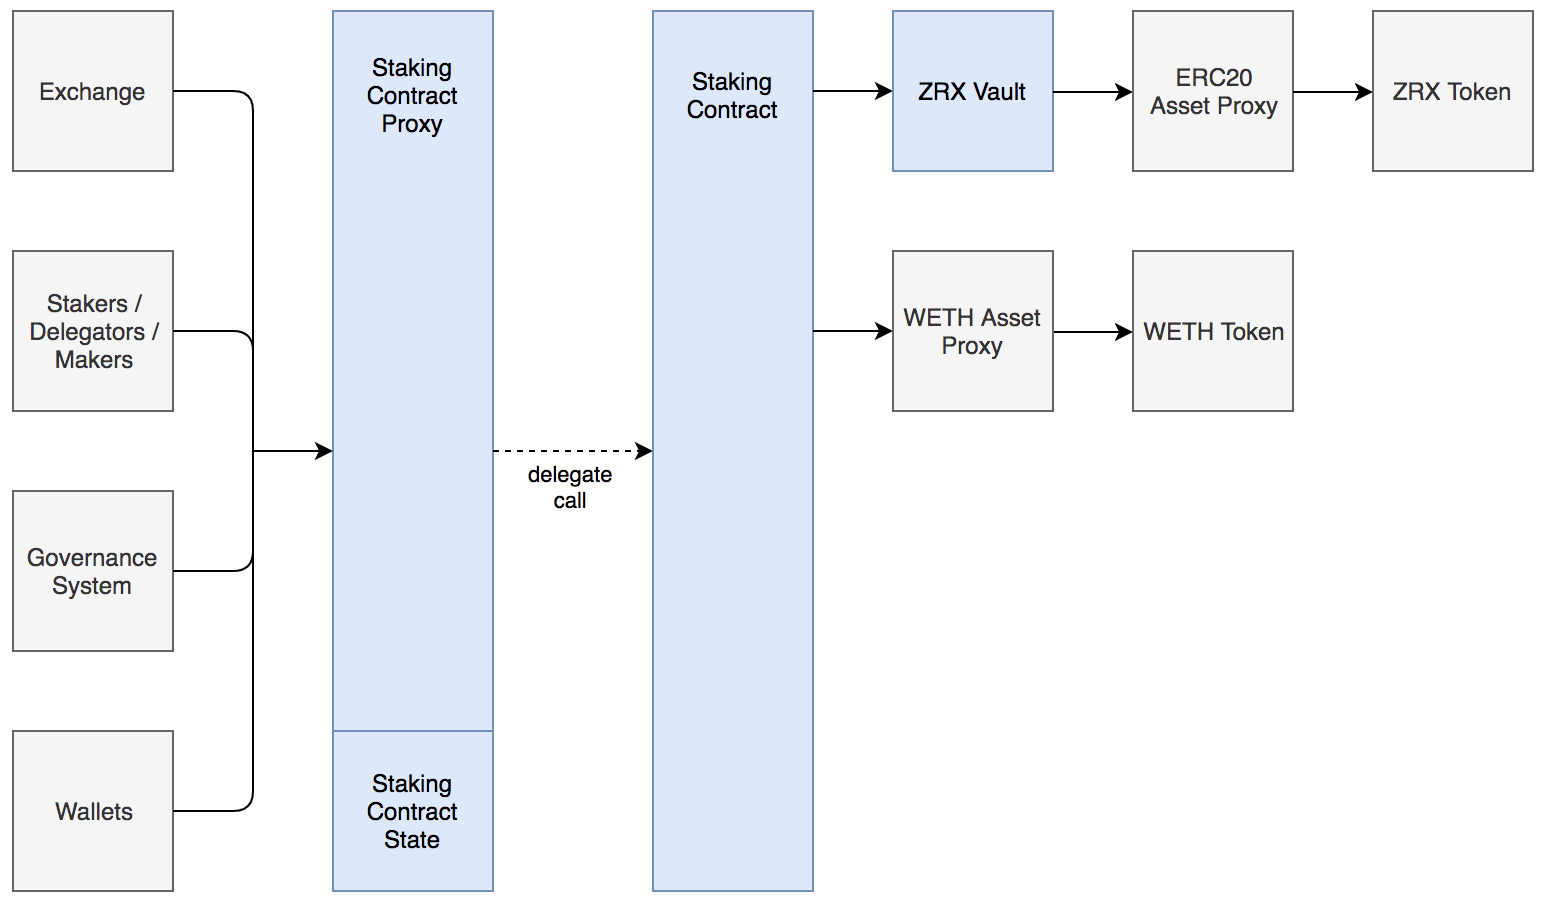
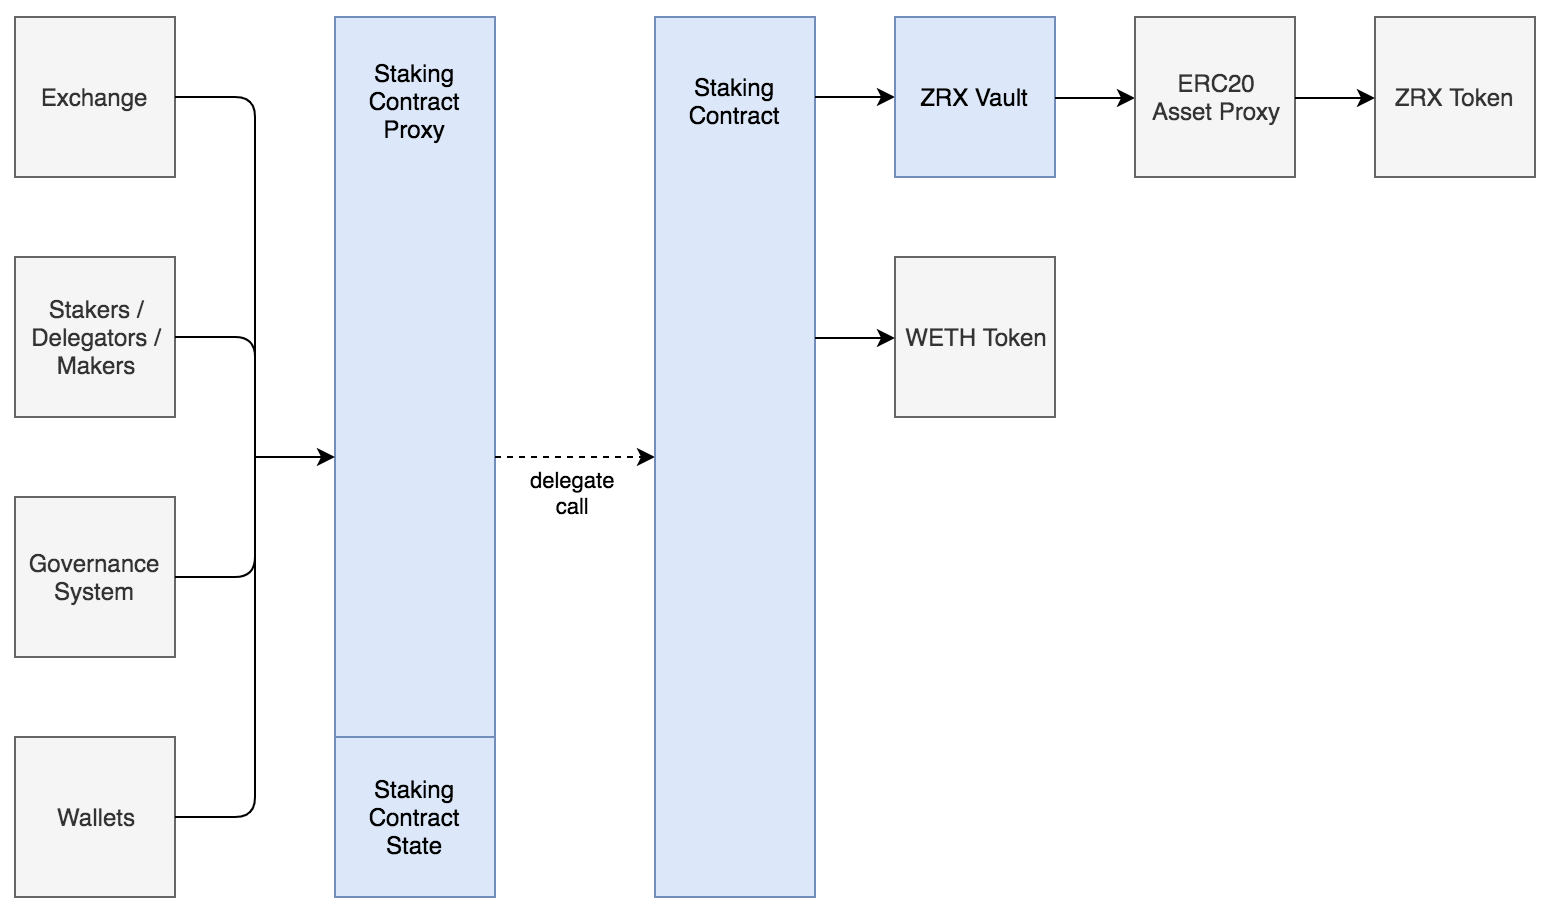
Readability improvements to Staking spec. Also removed the WETH asset proxy and added details on the delegated stake weight.

diff --git a/staking/staking-specification.md b/staking/staking-specification.md
@@ -3,9 +3,8 @@
 ## Table of Contents
 [1 Overview](#1-overview)
 <br>&nbsp;&nbsp;&nbsp;&nbsp;[1.1 Motivation](#11-motivation)
-<br>&nbsp;&nbsp;&nbsp;&nbsp;[1.2 Design Principles](#12-design-principles)
-<br>&nbsp;&nbsp;&nbsp;&nbsp;[1.3 Utility of Stake](#13-utility-of-stake)
-<br>&nbsp;&nbsp;&nbsp;&nbsp;[1.4 Staking Pools](#14-staking-pools)
+<br>&nbsp;&nbsp;&nbsp;&nbsp;[1.2 Utility of Stake](#13-utility-of-stake)
+<br>&nbsp;&nbsp;&nbsp;&nbsp;[1.3 Staking Pools](#14-staking-pools)
 <br>[2 Architecture](#2-architecture)
 <br>&nbsp;&nbsp;&nbsp;&nbsp;[2.1 Read-Only Mode](#21-read-only-mode)
 <br>&nbsp;&nbsp;&nbsp;&nbsp;[2.2 Catastrophic Failure Mode](#22-catastrophic-failure-mode)
@@ -14,9 +13,8 @@
 <br>&nbsp;&nbsp;&nbsp;&nbsp;[3.2 Upgrading Staking Proxy](#32-upgrading-staking-proxy)
 <br>&nbsp;&nbsp;&nbsp;&nbsp;[3.3 Upgrading Staking Contract](#33-upgrading-staking-contract)
 <br>&nbsp;&nbsp;&nbsp;&nbsp;[3.4 Upgrading ZRX Vault](#34-upgrading-zrx-vault)
-<br>&nbsp;&nbsp;&nbsp;&nbsp;[3.5 Upgrading the WETH Asset Proxy](#35-upgrading-the-weth-asset-proxy)
-<br>&nbsp;&nbsp;&nbsp;&nbsp;[3.6 Handling upgrades to the ERC20 Proxy or ERC20 Asset Data](#36-handling-upgrades-to-the-erc20-proxy-or-erc20-asset-data)
-<br>&nbsp;&nbsp;&nbsp;&nbsp;[3.7 Setting Parameters](#37-setting-parameters)
+<br>&nbsp;&nbsp;&nbsp;&nbsp;[3.5 Handling upgrades to the ERC20 Proxy or ERC20 Asset Data](#36-handling-upgrades-to-the-erc20-proxy-or-erc20-asset-data)
+<br>&nbsp;&nbsp;&nbsp;&nbsp;[3.6 Setting Parameters](#37-setting-parameters)
 <br>[4 Epochs & Scheduling](#4-epochs--scheduling)
 <br>&nbsp;&nbsp;&nbsp;&nbsp;[4.1 Ending One Epoch, and Starting a New One](#41-ending-one-epoch-and-starting-a-new-one)
 <br>[5 Staking](#5-staking)
@@ -40,21 +38,17 @@ This spec outlines the design principles and constraints of the liquidity incent
 
 ### 1.1 Motivation
 
-Staking aligns all market participants with the long-term mission and objectives of 0x. Specifically, it encourages user ownership among market makers by rewarding those who stake. Protocol fees redirect proceeds from arbitrage-driven gas auctions back to market makers.
+Staking aligns all market participants with the long-term mission and objectives of 0x. Specifically, it incentivizes ownership of the protocol among market makers through liquidity rewards. Rewards are generated by a protocol fee that is denominated in ETH (or WETH) and proportional to the gas cost of filling an order. The fee is scales linearly with gas price to redirect proceeds from arbitrage-driven gas auctions back to market makers.
 
-### 1.2 Design Principles
-
-The design should incentivize liquidity providers to invest in the long-term success of the protocol, while creating a level playing field across all types of assets and classes of market makers. The architecture aims to minimize overhead and cost, both in terms of gas and effort to participate.
-
-### 1.3 Utility of Stake
+### 1.2 Utility of Stake
 
 Token holders stake their ZRX to unlock utility within the 0x ecosystem. This includes earning liquidity rewards through market making on the 0x protocol and participating in governance over the protocol.
 
-### 1.4 Staking Pools
+### 1.3 Staking Pools
 
 Staking pools can be created to leverage the weight of other stakers. For example, market makers earn liquidity rewards proportional to both their trade volume and amount of stake delegated to their pool. Delegators, in turn, can earn a portion of the pool's liquidity reward.
 
-Staking pools can also be used to increase voting power. Delegators share a portion of their vote with the pool, amplifying the pool's impact in governance over 0x.
+Staking pools can also be used to increase voting power. Delegators share a portion of their vote with the pool, amplifying the pool's impact in governance over 0x. Delegation creates a level playing field across all types of assets and classes of market makers, large or small.
 
 ## 2 Architecture
 
@@ -117,15 +111,7 @@ This section outlines steps for managing the system of smart contracts. Operatio
 
 ### 3.4 Upgrading ZRX Vault
 
-The ZRX Vault address is hardcoded in the Staking Contract and should not be upgraded. If it does need to be changed, then set the current ZRX Vault into Catastrophic Failure mode (allowing users to withdraw their ZRX) and redeploy the entire system (seciond 3.1).
-
-### 3.5 Upgrading the WETH Asset Proxy
-
-The WETH Asset Proxy is hardcoded in the Staking Contract. Upgrading this contract would require users to adjust their allowances, but it is possible in extreme circumstances.
-
-1. Deploy new WETH Asset Proxy.
-2. Update WETH Asset Proxy constant in Staking Contract.
-3. Deploy new Staking Contract (section 3.3)
+The ZRX Vault address is hardcoded in the Staking Contract and should not be upgraded. If it does need to be changed, then set the current ZRX Vault into Catastrophic Failure mode (allowing users to withdraw their ZRX) and redeploy the entire system (section 3.1).
 
 ### 3.6 Handling upgrades to the ERC20 Proxy or ERC20 Asset Data
 
@@ -153,7 +139,7 @@ function setParams(
     uint256 _maximumMakersInPool,
     uint32 _cobbDouglasAlphaNumerator,
     uint32 _cobbDouglasAlphaDenominator
-) external;
+) external onlyAuthorized;
 
 /// @dev Retrieves all configurable parameter values.
 /// @return _epochDurationInSeconds Minimum seconds between epochs.
@@ -201,7 +187,7 @@ ZRX is staked by depositing tokens into the Staking Contract. The diagram below 
 
 <p align="center"><img src="./assets/Staking.png" width="700" /></p>
 
-ZRX can simlarly be unstaked by withdrawing tokens from the Staking contract. However, there are time-restrictions on unstaking ZRX, which are discussed more later in this section.
+ZRX can simlarly be unstaked by withdrawing tokens from the Staking contract. However, there are time-restrictions on unstaking ZRX, which are discussed later in this section.
 
 Below is the interface for staking and unstaking.
 
@@ -223,8 +209,10 @@ Staking pools can be created to leverage the weight of other stakers. A pool has
 |--|--|
 | Pool Id | A unique id generated by this contract and assigned to each pool when it is created. |
 | Pool Operator | The creator and operator of the pool. |
-| Pool Members | Members of the pool who opted-in by delegating to the pool. |
+| Pool Members | Stakers who delegate their ZRX to the pool in exchange for a portion of liquidity rewards. |
+| Market Makers | Makers on the 0x protocol whose orders generate liquidity rewards for the pool. |
 
+It is presently intended for the pool operator to be sole the market maker of the pool. This is incentivized by making it more profitable for a maker to create their own pool over joining an existing one: the operator's stake is weighted greater than stake delegated by members when computing liquidity rewards. There may be a stricter way to enforce this property in the future.
 
 ### 5.2 Stake Status
 Each staked ZRX has an associated status that reflects its utility within the 0x Ecosystem.
@@ -238,16 +226,12 @@ Each staked ZRX has an associated status that reflects its utility within the 0x
 
 There is a single function for moving stake between statuses:
 ```
-/// @dev Moves stake between statuses: 'active', 'inactive' or 'delegated'.
-///      This change comes into effect next epoch.
-/// @param from status to move stake out of.
-/// @param to status to move stake into.
-/// @param amount of stake to move.
-function moveStake(
-    IStructs.StakeInfo calldata from,
-    IStructs.StakeInfo calldata to,
-    uint256 amount
-) external;
+/// @dev Statuses that stake can exist in.
+enum StakeStatus {
+    ACTIVE,
+    INACTIVE,
+    DELEGATED
+}
 
 /// @dev Info used to describe a status.
 /// @param status of the stake.
@@ -257,12 +241,16 @@ struct StakeInfo {
     bytes32 poolId;
 }
 
-/// @dev Statuses that stake can exist in.
-enum StakeStatus {
-    ACTIVE,
-    INACTIVE,
-    DELEGATED
-}
+/// @dev Moves stake between statuses: 'active', 'inactive' or 'delegated'.
+///      This change comes into effect next epoch.
+/// @param from status to move stake out of.
+/// @param to status to move stake into.
+/// @param amount of stake to move.
+function moveStake(
+    StakeInfo calldata from,
+    StakeInfo calldata to,
+    uint256 amount
+) external;
 ```
 
 Note that when stake is moved its new status comes into effect on the _next epoch_. Stake remains in its current status until the end of the current epoch.
@@ -285,21 +273,21 @@ struct StakeBalance {
 function getGlobalActiveStake()
     external
     view
-    returns (IStructs.StakeBalance memory balance);
+    returns (StakeBalance memory balance);
 
 /// @dev Returns the total inactive stake across the entire staking system.
 /// @return Global inactive stake.
 function getGlobalInactiveStake()
     external
     view
-    returns (IStructs.StakeBalance memory balance);
+    returns (StakeBalance memory balance);
 
 /// @dev Returns the total stake delegated across the entire staking system.
 /// @return Global delegated stake.
 function getGlobalDelegatedStake()
     external
     view
-    returns (IStructs.StakeBalance memory balance);
+    returns (StakeBalance memory balance);
 
 /// @dev Returns the total stake for a given owner.
 /// @param owner of stake.
@@ -315,7 +303,7 @@ function getTotalStake(address owner)
 function getActiveStake(address owner)
     external
     view
-    returns (IStructs.StakeBalance memory balance);
+    returns (StakeBalance memory balance);
 
 /// @dev Returns the inactive stake for a given owner.
 /// @param owner of stake.
@@ -323,7 +311,7 @@ function getActiveStake(address owner)
 function getInactiveStake(address owner)
     external
     view
-    returns (IStructs.StakeBalance memory balance);
+    returns (StakeBalance memory balance);
 
 /// @dev Returns the stake delegated by a given owner.
 /// @param owner of stake.
@@ -331,7 +319,7 @@ function getInactiveStake(address owner)
 function getStakeDelegatedByOwner(address owner)
     external
     view
-    returns (IStructs.StakeBalance memory balance);
+    returns (StakeBalance memory balance);
 
 /// @dev Returns the amount stake that can be withdrawn for a given owner.
 /// @param owner of stake.
@@ -348,7 +336,7 @@ function getWithdrawableStake(address owner)
 function getStakeDelegatedToPoolByOwner(address owner, bytes32 poolId)
     public
     view
-    returns (IStructs.StakeBalance memory balance);
+    returns (StakeBalance memory balance);
 
 /// @dev Returns the total stake delegated to a specific staking pool,
 ///      across all members.
@@ -357,7 +345,7 @@ function getStakeDelegatedToPoolByOwner(address owner, bytes32 poolId)
 function getTotalStakeDelegatedToPool(bytes32 poolId)
     public
     view
-    returns (IStructs.StakeBalance memory balance);
+    returns (StakeBalance memory balance);
 ```
 
 ## 6 Liquidity Incentives
@@ -368,7 +356,7 @@ Liquidity incentives are used to align market participants with long-term object
 
 The protocol fee is paid in either WETH or ETH. If ETH is not included in the transaction (by setting `msg.value`) then the fee will be taken in WETH from the taker, as illustrated in the diagram above.
 
-Note also that the WETH Asset Proxy is distinct from the standard ERC20 Asset Proxy, used by the exchange. There are two reasons for this. Firstly, this separation means that users must explicitly opt-in to fees (no hidden fees). Secondly, the Staking Contract only needs access to WETH, whereas the ERC20 Proxy would provide access to _all_ tokens that a user has given allowance for; since the Staking Contract is upgradable, this separation reduces the attack surface.
+Note also that the WETH allowances are set in the Staking Proxy opposed to the standard ERC20 Asset Proxy, used by the exchange. There are two reasons for this. Firstly, this separation means that users must explicitly opt-in to fees (no hidden fees). Secondly, the Staking Contract only needs access to WETH, whereas the ERC20 Proxy would provide access to _all_ tokens that a user has given allowance for; since the Staking Contract is upgradable, this separation reduces the attack surface.
 
 ### 6.1 Market Making
 
@@ -443,7 +431,7 @@ struct Pool {
 function getStakingPool(bytes32 poolId)
     public
     view
-    returns (IStructs.Pool memory);
+    returns (Pool memory);
 
 /// @dev Decreases the operator share for the given pool (i.e. increases pool rewards for members).
 /// @param poolId Unique Id of pool.
@@ -467,7 +455,7 @@ The Cobb-Douglas function is used to compute how much of the aggregate fees shou
 | _D_ | Total weighted ZRX staked across all (active) market maker pools this epoch. |
 | _α_ | A constant in the range [0..1] that determines the weight of fees vs stake. |
 
-At the end of an epoch, each pool that actively traded can retrieve their liquidity reward. This is done by calling the finalize function.
+At the end of an epoch, each pool that traded can retrieve their liquidity reward. This is done by calling the finalize function. Dust pools (that have )
 
 ```
 /// @dev Instantly finalizes a single pool that was active in the previous
@@ -489,7 +477,7 @@ function finalizePool(bytes32 poolId)
     );
 ```
 
-Each pool has until the end of the current epoch to finalize their pool for the previous epoch. During finalization the market maker will be paid their % of the reward in WETH. Pool members are paid when they modify how much stake they've delegated to the pool (or undelegate). Altenratively, members can retrieve their reward in WETH by calling the withdraw function.
+Each pool has until the end of the current epoch to finalize their pool for the previous epoch. During finalization the market maker will be paid their % of the reward in WETH. Pool members are paid when they modify how much stake they've delegated to the pool (or undelegate). Alternatively, members can retrieve their reward in WETH by calling the withdraw function.
 
 ```
 /// @dev Syncs rewards for a delegator. This includes transferring WETH
@@ -525,7 +513,7 @@ function computeRewardBalanceOfDelegator(bytes32 poolId, address member)
 
 ## 7 Batch Calls
 
-The staking contract supports arbitrary batch function calls, allowing for several operations in a single transaction. For example, finalizing several pools in one transaction.
+The staking contract supports arbitrary batch function calls to the staking logic contract, allowing for several operations in a single transaction. For example, finalizing several pools in one transaction.
 
 ```
 /// @dev Batch executes a series of calls to the staking contract.
@@ -697,7 +685,7 @@ This section dives deeper into the mechanics of the smart contracts.
 
 ### 9.1 Securing the Proxy Pattern
 
-The proxy pattern splits the state and logic into different contracts, allowing the logic contract to be upgraded. This is achieved using a `delegate_call` from the state contract into the logic contract.
+The proxy pattern splits the state and logic into different contracts, allowing the logic contract to be upgraded. This is achieved using a `delegatecall` from the state contract into the logic contract.
 
 One of the dangers in this pattern is that the storage slot or offset could change in a future version of Solidity. This could happen for any number of reasons; the most likely of which is that the order of state variables changes between two versions of the logic contract. An error like this would certainly be catastrophic, as the state variables in the logic contract would point to _different_ variables in the state contract.
 
@@ -736,10 +724,10 @@ The member's reward after n epochs (given member does not change their stake) is
 
 
 When a member modifies their stake in the pool, the [StoredBalance struct](https://github.com/0xProject/0x-monorepo/blob/3.0/contracts/staking/contracts/src/interfaces/IStructs.sol) gives us:
-1. How many epochs they were staked (`n`)
+1. How many epochs since they last modified their stake (`n`)
 2. How much stake they had contributed during those epochs (`d`)
 
-In addition to these values, we also need sum of ratios `R_k / D_k`, for each epoch `k` that the member was delegated. This ratio is available during the pool's finalization of epoch `k`. We are able to do store this information concisely using a cumulative sum of these reward ratios, as follows:
+In addition to these values, we also need sum of ratios `R_k / D_k`, for each epoch `k` that the member was delegated. This ratio is available during the pool's finalization of epoch `k`. We are able to store this information concisely using a cumulative sum of these reward ratios, as follows:
 
 We store the following ratio for each epoch that a reward is earned for the pool:
 <p align="center"><img src="./assets/reward_tracking/WhatWeStore.png" height="60" /></p>
@@ -751,23 +739,23 @@ Example:
 
 <p align="center"><img src="./assets/reward_tracking/RewardFromWhatWeStore-Example.png" height="60" /></p>
 
-This cumulative reward along with the stored balance of a member, we are able to compute their reward in the pool at any time.
+With the cumulative reward along with the stored balance of a member, we are able to compute their reward in the pool at any time.
 
 This information is stored on-chain as follows:
 ```
 // mapping from Owner to Pool Id to Amount Delegated
-mapping (address  =>  mapping (bytes32  => IStructs.StoredBalance)) internal _delegatedStakeToPoolByOwner;
+mapping (address  =>  mapping (bytes32  => StoredBalance)) internal _delegatedStakeToPoolByOwner;
 
 // mapping from Pool Id to Amount Delegated
-mapping (bytes32  => IStructs.StoredBalance) internal _delegatedStakeByPoolId;
+mapping (bytes32  => StoredBalance) internal _delegatedStakeByPoolId;
 
 // mapping from Pool Id to Epoch to Reward Ratio
-mapping (bytes32  =>  mapping (uint256  => IStructs.Fraction)) internal _cumulativeRewardsByPool;
+mapping (bytes32  =>  mapping (uint256  => Fraction)) internal _cumulativeRewardsByPool;
 ```
 
 #### 9.3.1 Computing Rewards - in Practice
 
-In the equations above, a staker earned rewards from epochs `[0..n]`. This means that the staker undelegated during epoch `n` and stopped earning rewards in epoch `n+1`. So at the time of the call, we don't have access to the reward for epoch `n`.
+In the equations above, a staker earned rewards from epochs `[0..n]`. This means that the staker modified between epochs `n` and stopped earning rewards in epoch `n+1`. So at the time of the call, we don't have access to the reward for epoch `n`.
 
 In practice, this equation becomes:
 <p align="center"><img src="./assets/reward_tracking/RewardAfterManyEpochs-InPractice.png" height="60" /></p>
@@ -803,13 +791,13 @@ Below are the design objectives of stake management:
 
 There are three statuses that stake can exist in: Active, Inactive or Delegated. Each state has three fields:
 
-1. How much stake is currently in this state (cur)
-2. How much stake is in this state next epoch (next)
-3. The last time this state was stored
+1. How much stake is currently in this state (`currentEpochBalance` in the code; `cur` in the diagram below)
+2. How much stake is in this state next epoch (`nextEpochBalance` in the code; `next` in the diagram below)
+3. The last time this state was stored (`currentEpoch` in the code)
 
 These fields combined allow us to compute the correct values at any given epoch without user intervention.
 Inactive stake includes a Withdrawable field (W) that reflects how much stake can be withdrawn at any given time.
 
-The figure below illustrates how these fields are updted to track a user's stake.
+The figure below illustrates how these fields are updated to track a user's stake.
 
 <p align="center"><img src="./assets/StakeManagementExample.jpg" width="700" /></p>
